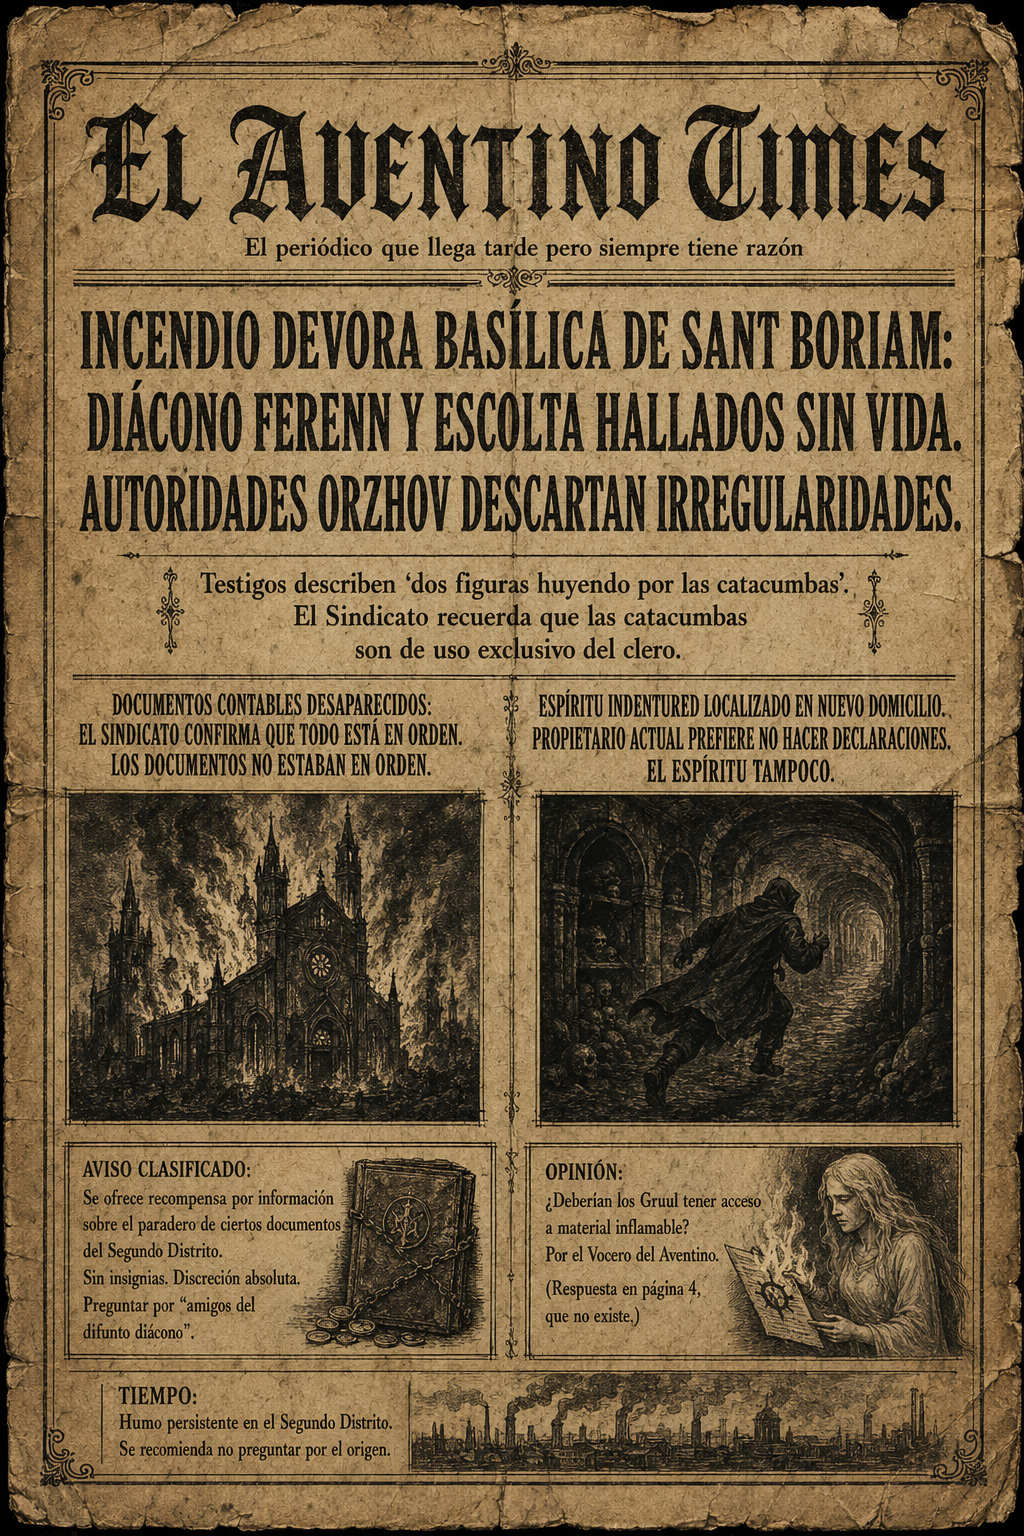
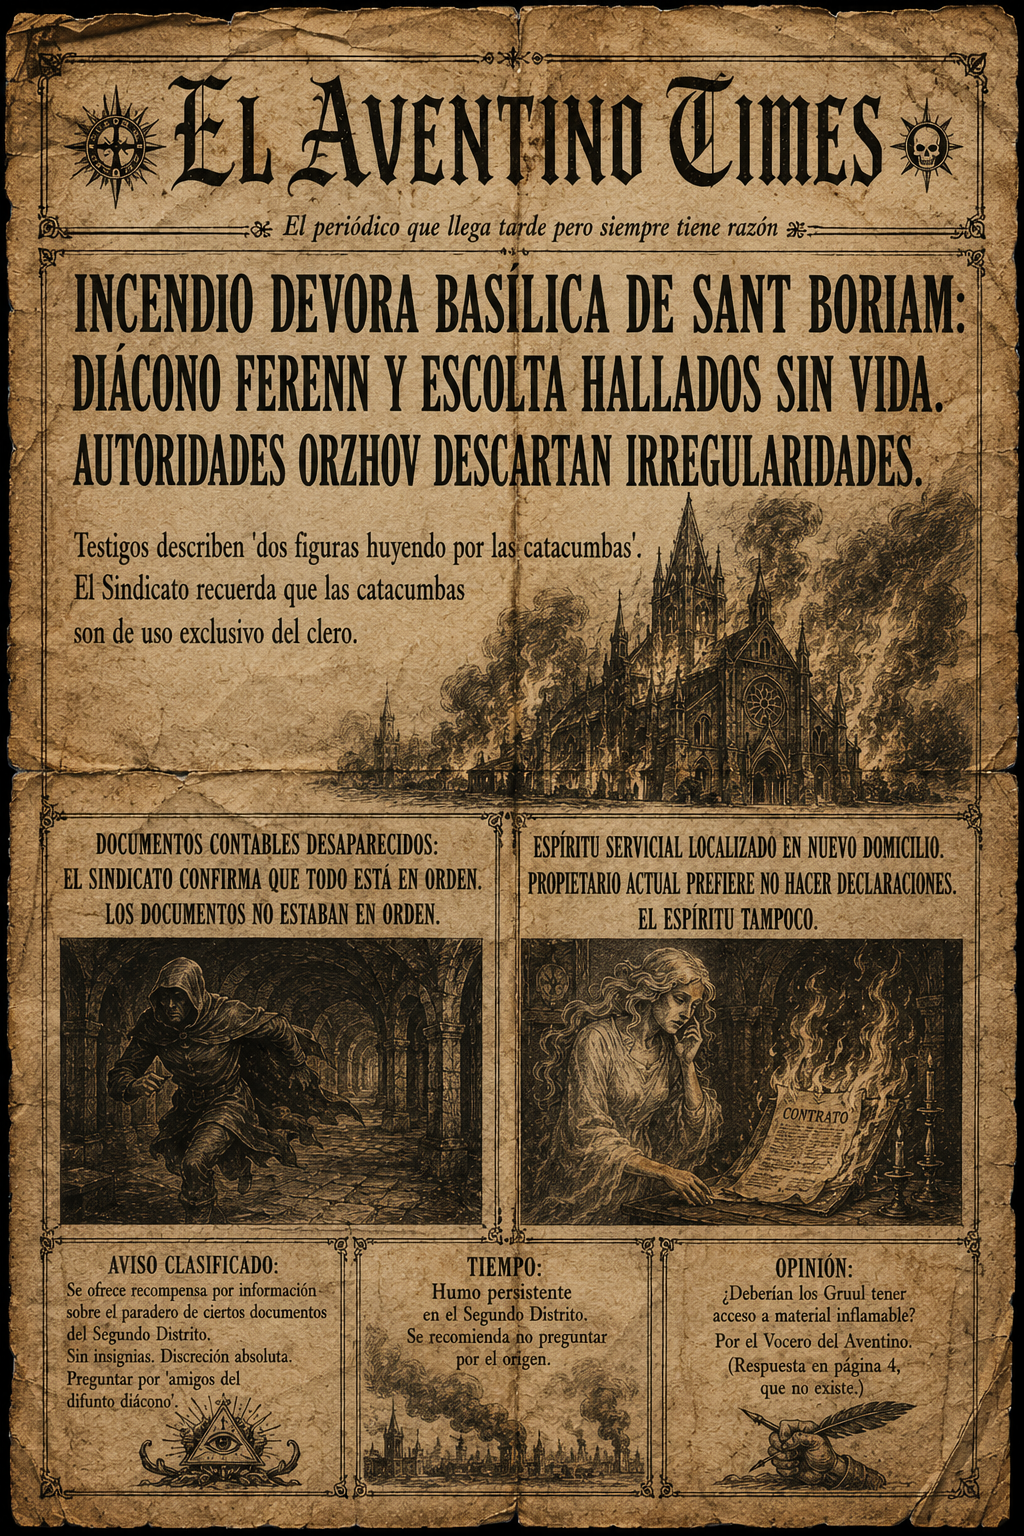
deploy(feature/pestanya-aventino-carousel): da589f01a605278903baafc89b3f98ae0ec2d5d2 da589f01a605278903baafc89b3f98ae0ec2d5d2

diff --git a/dev/pestanya-aventino-carousel/index.html b/dev/pestanya-aventino-carousel/index.html
@@ -125,7 +125,7 @@ function guildLabel(g){
 const AG=["Azorius","Boros","Dimir","Golgari","Gruul","Izzet","Orzhov","Rakdos","Selesnya","Simic","Guildless"];
 const PJS=["Ezzio Salvatore","Wundyr Somo","Yarog (HorseLuis)","Manjatan","Svikull Rusl","Marchena","Kasz"];
 const PC={"Ezzio Salvatore":"#888888","Wundyr Somo":"#d4621a","Yarog (HorseLuis)":"#c46a1a","Manjatan":"#c44aaa","Svikull Rusl":"#5a9a3a","Marchena":"#5b9fd4","Kasz":"#c43030","Compartido":"#8a7a5a","Solo DM":"#888"};
-const VERSION="4.18.5";const BUILD_HASH="f2d5631";
+const VERSION="4.18.5";const BUILD_HASH="da589f0";
 const IS_DEV_ENV=/\/dev(\/|$)/.test(window.location.pathname);
 const PALETTES={light:{GOLD:"#8b1c1c",BG:"#ffffff",BG2:"#f8f3ea",BG3:"#f0e8d8",BORDER:"#c0945a"},dark:{GOLD:"#9b2020",BG:"#0e0d0b",BG2:"#1a1814",BG3:"#242018",BORDER:"#3a3028"}};
 let GOLD="#8b1c1c",BG="#ffffff",BG2="#f8f3ea",BG3="#f0e8d8",BORDER="#c0945a";
